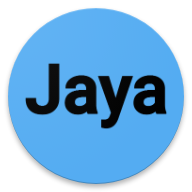
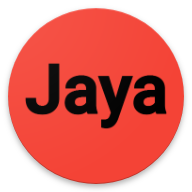
更换头像

diff --git a/about/index.html b/about/index.html
@@ -3,4 +3,4 @@ layout: page
 type: page
 title: About me
 ---
-Building....
+好好学习，天天向上！
